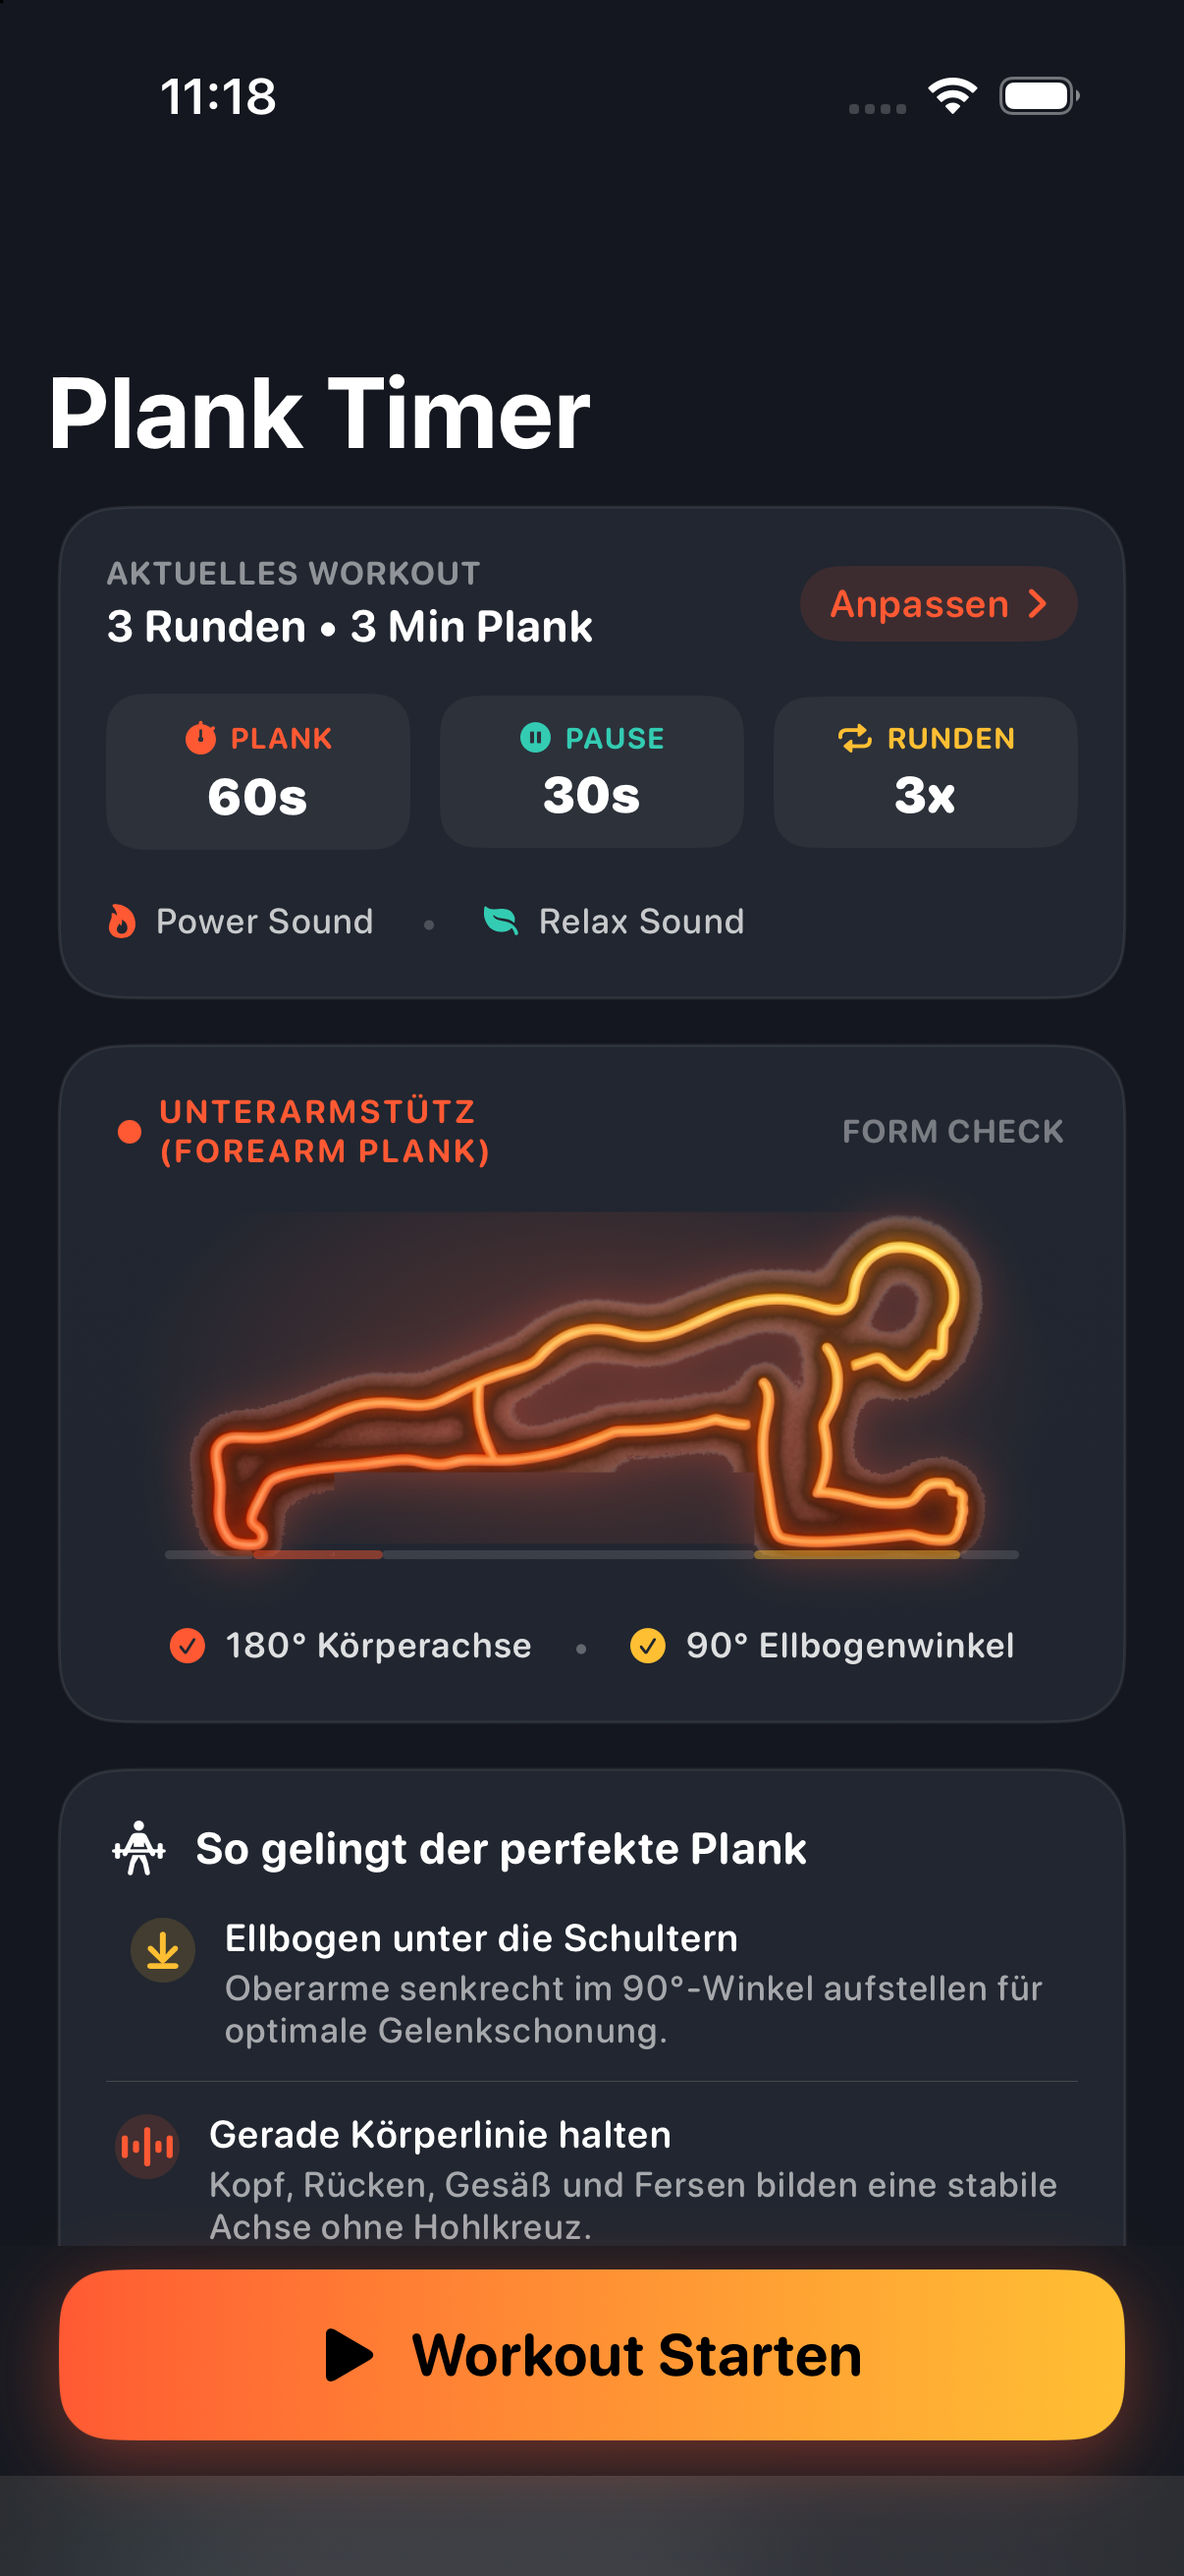
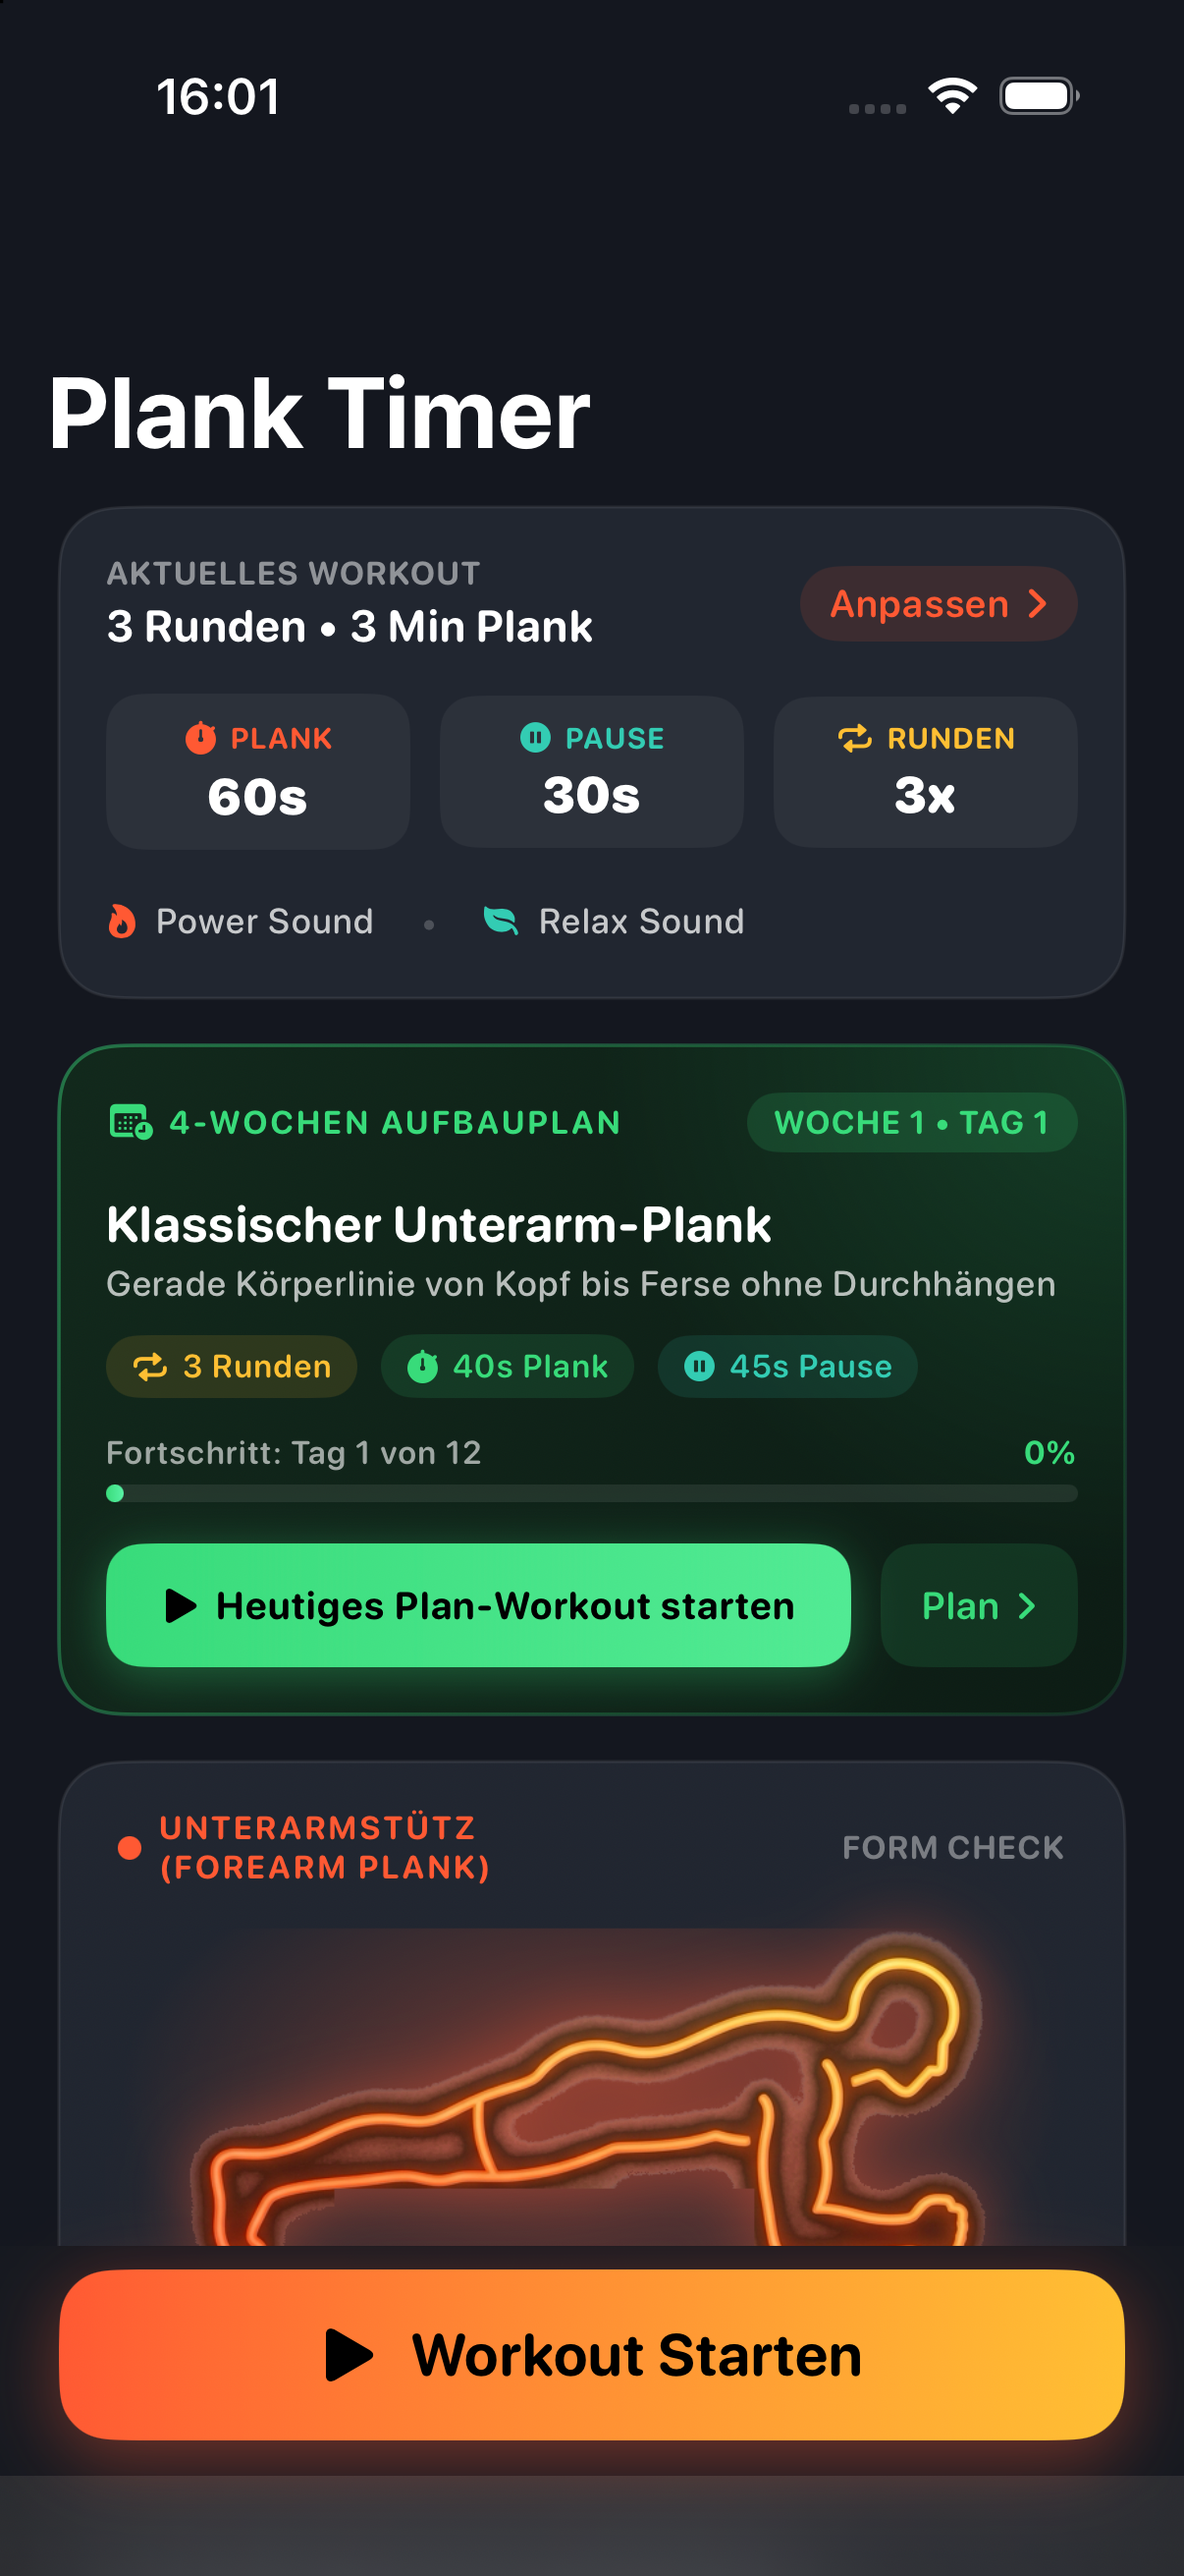
feat: Update Plank Musik Timer to v1.1.0 with 4-week plan, 14 variations and 5 new screenshots

Changed region(s): [[0.0307, 0.4016, 0.9511, 0.8959], [0.1227, 0.0309, 0.2454, 0.0618]]

diff --git a/plank-timer.html b/plank-timer.html
@@ -54,11 +54,12 @@
       <div class="hero-content">
         <div style="display: flex; gap: 0.5rem; flex-wrap: wrap; margin-bottom: 0.75rem;">
           <div class="badge badge-orange">Intervall- & Core-Workout für iOS</div>
+          <div class="badge badge-green">Neu in v1.1.0: 4-Wochen Aufbauplan</div>
           <div class="badge" style="background: rgba(255, 122, 0, 0.12); color: #ff7a00; border-color: rgba(255, 122, 0, 0.3);">Apple Music & HealthKit Sync</div>
         </div>
         <h1>Plank <span class="text-gradient-orange">Musik Timer</span> 🔥</h1>
         <p class="hero-subtitle">
-          Hol das Maximum aus deinem Core-Training heraus. <strong>Plank Musik Timer</strong> kombiniert präzises Intervall-Timing mit deiner eigenen <strong>Apple Music Mediathek</strong>: Schnelle Power-Tracks pushen dich durch jede Plank-Sekunde, sanfte Relax-Tracks begleiten deine Pause – vollautomatisch gesteuert. Mit motivierendem <strong>Voice Coach (inklusive Audio-Ducking)</strong>, <strong>Live Activity</strong> für die Dynamic Island und <strong>Apple Health</strong> Integration.
+          Hol das Maximum aus deinem Core-Training heraus. <strong>Plank Musik Timer (v1.1.0)</strong> kombiniert präzises Intervall-Timing mit einem geführten <strong>4-Wochen-Aufbauplan</strong>, einem umfassenden <strong>Übungs-Lexikon mit 14 Plank-Varianten</strong> und deiner eigenen <strong>Apple Music Mediathek</strong>. Ein dynamischer <strong>Voice Coach (mit Audio-Ducking)</strong>, <strong>Live Activities</strong> für die Dynamic Island und die automatische <strong>Apple Health</strong> Synchronisation machen dein Training perfekt.
         </p>
 
         <div class="hero-buttons" style="display: flex; align-items: center; gap: 1.25rem; flex-wrap: wrap;">
@@ -68,20 +69,20 @@
 
         <div class="hero-stats">
           <div class="stat-item">
-            <h4>Apple Music</h4>
-            <p>Power- & Pause-Playlists synchronisiert</p>
+            <h4>4-Wochen-Plan</h4>
+            <p>12 geführte Progressionstage</p>
+          </div>
+          <div class="stat-item">
+            <h4>14 Varianten</h4>
+            <p>Übungs-Lexikon & Posen</p>
+          </div>
+          <div class="stat-item">
+            <h4>Apple Music & Health</h4>
+            <p>Playlists & Aktivitätsringe</p>
           </div>
           <div class="stat-item">
             <h4>Voice Coach</h4>
-            <p>Siri-Ansagen mit Audio-Ducking</p>
-          </div>
-          <div class="stat-item">
-            <h4>Apple Health</h4>
-            <p>Schließt Ringe als Core-Training</p>
-          </div>
-          <div class="stat-item">
-            <h4>Live Activity</h4>
-            <p>Dynamic Island & Sperrbildschirm</p>
+            <p>Ansagen mit Audio-Ducking</p>
           </div>
         </div>
       </div>
@@ -104,29 +105,45 @@
         <p>Klares, ablenkungsfreies Dark-Design mit warmen Akzenten – optimiert für schnellen Start direkt auf der Trainingsmatte.</p>
       </div>
 
-      <div class="screenshots-gallery-grid" style="grid-template-columns: repeat(auto-fit, minmax(280px, 1fr));">
+      <div class="screenshots-gallery-grid" style="grid-template-columns: repeat(auto-fit, minmax(220px, 1fr)); gap: 1.5rem;">
         <!-- Item 1: Startseite -->
         <div class="screenshot-gallery-item orange-hover">
           <div class="screenshot-img-box">
-            <img src="images/plank-timer-screenshot-home.png" alt="Plank Musik Timer Startseite mit Haltungsguide">
+            <img src="images/plank-timer-screenshot-home.png" alt="Plank Musik Timer Startseite mit smartem Plan und Haltungscheck">
           </div>
-          <div class="screenshot-caption">🏠 Übersichtliche Startseite mit Plank-Guide & Schnellstart</div>
+          <div class="screenshot-caption">🏠 Smarte Startseite mit 4-Wochen-Plan & Form-Check</div>
         </div>
 
-        <!-- Item 2: Aktives Workout -->
+        <!-- Item 2: 4-Wochen-Aufbauplan -->
+        <div class="screenshot-gallery-item orange-hover">
+          <div class="screenshot-img-box">
+            <img src="images/plank-timer-screenshot-plan.png" alt="4-Wochen Core-Aufbauplan mit 12 Trainingseinheiten">
+          </div>
+          <div class="screenshot-caption">📅 4-Wochen Aufbauplan: Strukturierte Progression</div>
+        </div>
+
+        <!-- Item 3: Übungs-Lexikon -->
+        <div class="screenshot-gallery-item orange-hover">
+          <div class="screenshot-img-box">
+            <img src="images/plank-timer-screenshot-lexikon.png" alt="Plank Übungs-Lexikon mit anatomischem Posen-Piktogramm">
+          </div>
+          <div class="screenshot-caption">📖 Übungs-Lexikon mit 14 Varianten & Posen-Piktogrammen</div>
+        </div>
+
+        <!-- Item 4: Aktives Workout -->
         <div class="screenshot-gallery-item orange-hover">
           <div class="screenshot-img-box">
             <img src="images/plank-timer-screenshot-timer.png" alt="Plank Musik Timer Aktives Workout mit Ring-Animation">
           </div>
-          <div class="screenshot-caption">🔥 Dynamischer Intervall-Ring mit Runden- & Zeitanzeige</div>
+          <div class="screenshot-caption">🔥 Aktiver Timer mit Musik-Sync & Smaragd-Design</div>
         </div>
 
-        <!-- Item 3: Einstellungen & Health -->
+        <!-- Item 5: Einstellungen & Health -->
         <div class="screenshot-gallery-item orange-hover">
           <div class="screenshot-img-box">
             <img src="images/plank-timer-screenshot-settings.png" alt="Plank Musik Timer Einstellungen und HealthKit Sync">
           </div>
-          <div class="screenshot-caption">⚙ Intervall-Setup, Coach-Stimmen & Apple Health Integration</div>
+          <div class="screenshot-caption">⚙ Intervall-Setup, Apple Music & HealthKit Sync</div>
         </div>
       </div>
     </div>

diff --git a/apps.html b/apps.html
@@ -155,7 +155,7 @@
             </div>
 
             <p style="font-size: 1rem; margin-bottom: 0;">
-              Der smarte Workout-Timer für dein Core- und Intervall-Training: Synchronisiere Power- und Erholungs-Playlists direkt aus Apple Music, profitiere von einem motivierenden Voice Coach mit automatischem Audio-Ducking und schließe deine Apple Watch Aktivitätsringe durch nahtlosen Apple Health Sync. Inklusive Live Activity für die Dynamic Island und integriertem Plank-Haltungsguide.
+              Der smarte Workout-Timer für dein Core- und Intervall-Training: Version 1.1.0 bringt einen geführten 4-Wochen-Aufbauplan (12 Progressionstage) und ein umfassendes Übungs-Lexikon mit 14 Plank-Varianten & anatomischen Posen-Piktogrammen. Synchronisiere Power- und Relax-Playlists aus Apple Music, trainiere mit dynamischem Voice Coach (Audio-Ducking) und schließe deine Ringe mit direkter Apple Health Integration.
             </p>
           </div>
         </div>

diff --git a/index.html b/index.html
@@ -208,7 +208,7 @@
           </div>
           <h3>Plank Musik Timer 🔥</h3>
           <p>
-            Der smarte Core-Timer für iOS: Synchronisiere deine Workouts automatisch mit Apple Music Playlists, trainiere mit dynamischem Voice Coach (Audio-Ducking) und schließe deine Ringe mit direkter Apple Health Integration.
+            Der smarte Core-Timer für iOS: Neu mit 4-Wochen-Aufbauplan und 14 Plank-Varianten im Übungs-Lexikon! Synchronisiere deine Workouts mit Apple Music Playlists, trainiere mit dynamischem Voice Coach (Audio-Ducking) und schließe deine Apple Health Ringe.
           </p>
           <div style="margin-top: 1.5rem; display: flex; gap: 0.75rem; flex-wrap: wrap;">
             <a href="plank-timer.html" class="btn btn-orange btn-sm">Details & Features →</a>
